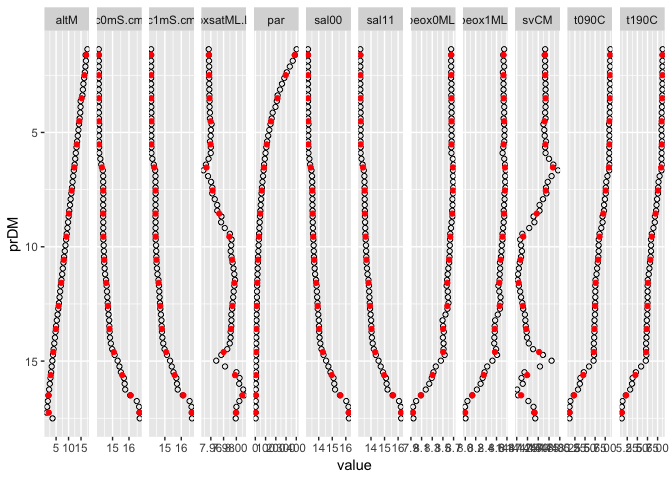
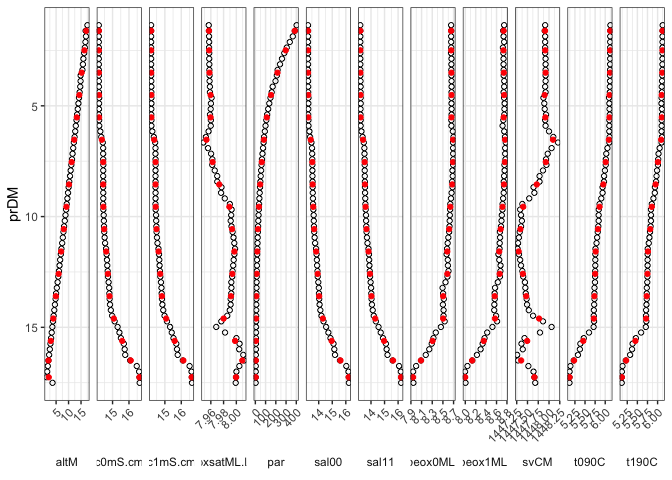
cosmetic changes

diff --git a/README.md b/README.md
@@ -26,76 +26,76 @@ from a CTD cast in the Arkona Basin (southern Baltic Sea).
 load("example_ctd") 
 ctd <- select(ctd, prDM : par)
 
-knitr::kable(ctd)
+knitr::kable(ctd, digits = 1)
 ```
 
-|      prDM|   c0mS.cm|   c1mS.cm|   t090C|   t190C|    sal00|    sal11|  sbeox0ML.L|  sbeox1ML.L|     svCM|  oxsatML.L|      altM|       par|
-|---------:|---------:|---------:|-------:|-------:|--------:|--------:|-----------:|-----------:|--------:|----------:|---------:|---------:|
-|   1.36001|  14.16115|  14.16036|  6.1272|  6.1251|  13.2087|  13.2088|     8.65394|     8.74601|  1447.91|    7.95670|  17.55465|  402.8700|
-|   1.61264|  14.16280|  14.16364|  6.1245|  6.1219|  13.2115|  13.2133|     8.65493|     8.72731|  1447.90|    7.95708|  16.83636|  386.3400|
-|   1.86478|  14.16379|  14.16305|  6.1236|  6.1211|  13.2128|  13.2130|     8.65435|     8.73503|  1447.91|    7.95719|  16.97811|  365.7800|
-|   2.11683|  14.16334|  14.16383|  6.1227|  6.1207|  13.2126|  13.2138|     8.65487|     8.74630|  1447.91|    7.95737|  16.75866|  336.8300|
-|   2.36962|  14.16532|  14.16366|  6.1229|  6.1206|  13.2145|  13.2137|     8.65615|     8.72256|  1447.91|    7.95724|  16.53253|  306.9200|
-|   2.62119|  14.16302|  14.16275|  6.1224|  6.1208|  13.2122|  13.2126|     8.65235|     8.73113|  1447.91|    7.95746|  16.25545|  282.5500|
-|   2.87361|  14.16270|  14.16321|  6.1225|  6.1199|  13.2118|  13.2134|     8.66118|     8.73442|  1447.92|    7.95746|  15.94486|  260.4100|
-|   3.12572|  14.16310|  14.16297|  6.1215|  6.1194|  13.2126|  13.2133|     8.65893|     8.73448|  1447.92|    7.95761|  15.75344|  240.8900|
-|   3.37831|  14.16301|  14.16445|  6.1210|  6.1178|  13.2127|  13.2154|     8.65753|     8.73657|  1447.92|    7.95771|  15.56046|  217.5000|
-|   3.63016|  14.16485|  14.16545|  6.1188|  6.1166|  13.2154|  13.2168|     8.66033|     8.73692|  1447.92|    7.95800|  14.83946|  209.8400|
-|   3.88273|  14.16518|  14.17255|  6.1185|  6.1095|  13.2156|  13.2269|     8.66183|     8.74779|  1447.92|    7.95803|  14.81576|  196.7800|
-|   4.13487|  14.16931|  14.17895|  6.1143|  6.1030|  13.2221|  13.2360|     8.66311|     8.74706|  1447.91|    7.95858|  14.68473|  169.2600|
-|   4.38717|  14.16919|  14.17440|  6.1140|  6.1065|  13.2215|  13.2297|     8.66173|     8.73560|  1447.92|    7.95861|  14.43718|  159.5600|
-|   4.63930|  14.18452|  14.17993|  6.0950|  6.0988|  13.2451|  13.2386|     8.66165|     8.74519|  1447.87|    7.96120|  14.18563|  147.8100|
-|   4.89165|  14.17770|  14.18080|  6.1028|  6.0955|  13.2345|  13.2402|     8.66120|     8.75530|  1447.89|    7.96013|  13.94903|  136.2300|
-|   5.14395|  14.17406|  14.17383|  6.1061|  6.1059|  13.2294|  13.2291|     8.66374|     8.75167|  1447.90|    7.95977|  13.69822|  125.3100|
-|   5.39597|  14.17083|  14.17188|  6.1131|  6.1104|  13.2231|  13.2252|     8.66258|     8.74922|  1447.93|    7.95872|  13.43070|  115.3000|
-|   5.64864|  14.18255|  14.18024|  6.1023|  6.1016|  13.2394|  13.2373|     8.65772|     8.73006|  1447.91|    7.95998|  13.18286|  107.0100|
-|   5.90063|  14.18828|  14.17989|  6.1012|  6.1016|  13.2456|  13.2368|     8.65953|     8.71610|  1447.92|    7.95987|  12.90581|   99.4450|
-|   6.15294|  14.25398|  14.23611|  6.1008|  6.0983|  13.3130|  13.2950|     8.68627|     8.74802|  1448.00|    7.95644|  12.67231|   92.6420|
-|   6.40502|  14.31108|  14.32640|  6.1079|  6.1085|  13.3663|  13.3820|     8.69804|     8.76309|  1448.10|    7.95230|  12.42511|   85.2070|
-|   6.65751|  14.40616|  14.40764|  6.1019|  6.0986|  13.4657|  13.4685|     8.68989|     8.77727|  1448.21|    7.94831|  12.11428|   80.7850|
-|   6.90966|  14.42686|  14.42802|  6.0541|  6.0500|  13.5067|  13.5097|     8.69039|     8.76569|  1448.06|    7.95553|  11.86291|   75.1250|
-|   7.16208|  14.42822|  14.42770|  6.0259|  6.0230|  13.5198|  13.5205|     8.69254|     8.76656|  1447.97|    7.96039|  11.60969|   69.6820|
-|   7.41397|  14.42954|  14.43186|  6.0144|  6.0152|  13.5256|  13.5275|     8.69461|     8.77146|  1447.93|    7.96235|  11.37238|   64.4640|
-|   7.66669|  14.43783|  14.43694|  6.0127|  6.0082|  13.5344|  13.5354|     8.69191|     8.75220|  1447.94|    7.96222|  11.10942|   60.3930|
-|   7.91862|  14.43107|  14.42979|  5.9924|  5.9869|  13.5359|  13.5368|     8.67903|     8.75513|  1447.86|    7.96613|  10.83857|   56.3030|
-|   8.17115|  14.42719|  14.42947|  5.9716|  5.9735|  13.5404|  13.5418|     8.68420|     8.74503|  1447.78|    7.96999|  10.57913|   52.2490|
-|   8.42334|  14.43372|  14.43183|  5.9694|  5.9629|  13.5476|  13.5484|     8.67459|     8.73869|  1447.78|    7.97006|  10.27849|   48.8650|
-|   8.67537|  14.42534|  14.42704|  5.9341|  5.9339|  13.5537|  13.5554|     8.68044|     8.74850|  1447.64|    7.97670|  10.02631|   45.7340|
-|   8.92763|  14.43384|  14.43374|  5.9350|  5.9310|  13.5616|  13.5631|     8.66313|     8.73806|  1447.66|    7.97609|   9.79494|   42.5310|
-|   9.18019|  14.43299|  14.43210|  5.9024|  5.8965|  13.5742|  13.5758|     8.65143|     8.72628|  1447.54|    7.98187|   9.52281|   39.3260|
-|   9.43236|  14.42492|  14.42566|  5.8595|  5.8568|  13.5838|  13.5856|     8.63803|     8.71539|  1447.38|    7.98985|   9.26731|   36.6010|
-|   9.68471|  14.43835|  14.43938|  5.8398|  5.8367|  13.6054|  13.6077|     8.63520|     8.71414|  1447.33|    7.99262|   9.01486|   33.8560|
-|   9.93666|  14.46043|  14.46190|  5.8375|  5.8369|  13.6284|  13.6300|     8.62931|     8.70148|  1447.35|    7.99189|   8.75897|   31.3660|
-|  10.18954|  14.47104|  14.47204|  5.8384|  5.8367|  13.6382|  13.6400|     8.62710|     8.69544|  1447.37|    7.99117|   8.48738|   28.9700|
-|  10.44156|  14.48015|  14.48132|  5.8288|  5.8267|  13.6513|  13.6533|     8.62321|     8.68568|  1447.35|    7.99240|   8.20142|   26.7280|
-|  10.69364|  14.49231|  14.49405|  5.8152|  5.8127|  13.6692|  13.6720|     8.61660|     8.66523|  1447.32|    7.99415|   7.95248|   24.6780|
-|  10.94627|  14.51737|  14.51855|  5.7996|  5.7976|  13.7011|  13.7031|     8.60120|     8.66816|  1447.30|    7.99557|   7.70210|   22.8360|
-|  11.19851|  14.54466|  14.54917|  5.7844|  5.7815|  13.7352|  13.7410|     8.58937|     8.66109|  1447.28|    7.99680|   7.43637|   21.0360|
-|  11.45074|  14.60579|  14.60996|  5.7588|  5.7562|  13.8085|  13.8138|     8.57875|     8.65774|  1447.27|    7.99802|   7.13987|   19.3410|
-|  11.70296|  14.63902|  14.64220|  5.7549|  5.7534|  13.8438|  13.8476|     8.56933|     8.63562|  1447.30|    7.99695|   6.89543|   17.8840|
-|  11.95537|  14.66024|  14.66036|  5.7546|  5.7531|  13.8652|  13.8659|     8.59165|     8.65291|  1447.33|    7.99590|   6.62272|   16.5570|
-|  12.20750|  14.67749|  14.67857|  5.7541|  5.7526|  13.8829|  13.8845|     8.59355|     8.67703|  1447.35|    7.99506|   6.38295|   15.2590|
-|  12.45972|  14.70314|  14.70147|  5.7518|  5.7507|  13.9098|  13.9085|     8.60480|     8.67407|  1447.38|    7.99410|   6.14061|   14.1030|
-|  12.71220|  14.72033|  14.72269|  5.7500|  5.7483|  13.9280|  13.9310|     8.58516|     8.66514|  1447.40|    7.99351|   5.87805|   13.0990|
-|  12.96460|  14.75906|  14.75990|  5.7462|  5.7443|  13.9690|  13.9708|     8.54859|     8.62383|  1447.44|    7.99211|   5.59697|   12.1810|
-|  13.21683|  14.79390|  14.79253|  5.7345|  5.7337|  14.0098|  14.0087|     8.49366|     8.57247|  1447.45|    7.99229|   5.29826|   11.2850|
-|  13.46876|  14.80368|  14.80367|  5.7330|  5.7316|  14.0203|  14.0208|     8.50380|     8.56387|  1447.46|    7.99207|   4.99694|   10.4550|
-|  13.72097|  14.82069|  14.82268|  5.7335|  5.7315|  14.0373|  14.0402|     8.51706|     8.56589|  1447.48|    7.99105|   4.78944|    9.7649|
-|  13.97349|  14.84423|  14.84825|  5.7265|  5.7247|  14.0644|  14.0693|     8.49982|     8.55786|  1447.49|    7.99103|   4.53706|    9.1644|
-|  14.22582|  14.89464|  14.90094|  5.7187|  5.7151|  14.1195|  14.1275|     8.51253|     8.55551|  1447.53|    7.98970|   4.27003|    8.5750|
-|  14.47779|  14.97532|  14.97923|  5.7164|  5.7152|  14.2032|  14.2077|     8.51167|     8.59136|  1447.63|    7.98575|   4.01070|    8.0462|
-|  14.73010|  15.12716|  15.12750|  5.7231|  5.7217|  14.3566|  14.3572|     8.53294|     8.60995|  1447.86|    7.97640|   3.75988|    7.5571|
-|  14.98250|  15.30768|  15.31647|  5.7129|  5.7092|  14.5467|  14.5575|     8.46200|     8.52119|  1448.06|    7.96849|   3.49701|    7.0785|
-|  15.23485|  15.41775|  15.41984|  5.5992|  5.5926|  14.7128|  14.7179|     8.36645|     8.42073|  1447.79|    7.98230|   3.24270|    6.5971|
-|  15.48713|  15.50809|  15.52434|  5.4689|  5.4619|  14.8667|  14.8867|     8.32254|     8.36966|  1447.43|    8.00009|   2.99729|    6.1493|
-|  15.73911|  15.68814|  15.69650|  5.3841|  5.3815|  15.0929|  15.1029|     8.29023|     8.33327|  1447.36|    8.00509|   2.73771|    5.7247|
-|  15.99135|  15.73768|  15.73929|  5.3723|  5.3681|  15.1490|  15.1527|     8.24383|     8.29418|  1447.39|    8.00448|   2.48601|    5.3485|
-|  16.24375|  15.77115|  15.78238|  5.3251|  5.3206|  15.2065|  15.2193|     8.17846|     8.22329|  1447.26|    8.01088|   2.20397|    4.9582|
-|  16.49580|  16.07121|  16.09350|  5.2214|  5.2134|  15.5688|  15.5970|     8.08890|     8.13299|  1447.28|    8.01248|   1.93661|    4.5679|
-|  16.74801|  16.47295|  16.50643|  5.1378|  5.1320|  16.0333|  16.0715|     7.99736|     8.04068|  1447.52|    8.00472|   1.67326|    4.2285|
-|  17.00029|  16.61826|  16.62354|  5.1183|  5.1167|  16.1952|  16.2015|     7.94006|     7.99494|  1447.64|    8.00010|   1.42746|    3.9255|
-|  17.25263|  16.64181|  16.64214|  5.1145|  5.1135|  16.2207|  16.2215|     7.93073|     7.99170|  1447.66|    7.99953|   1.14989|    3.6354|
-|  17.50504|  16.65272|  16.65273|  5.1156|  5.1134|  16.2256|  16.2267|     7.94661|     8.00465|  1447.68|    7.99904|   3.57480|    3.2456|
+|  prDM|  c0mS.cm|  c1mS.cm|  t090C|  t190C|  sal00|  sal11|  sbeox0ML.L|  sbeox1ML.L|    svCM|  oxsatML.L|  altM|    par|
+|-----:|--------:|--------:|------:|------:|------:|------:|-----------:|-----------:|-------:|----------:|-----:|------:|
+|   1.4|     14.2|     14.2|    6.1|    6.1|   13.2|   13.2|         8.7|         8.7|  1447.9|        8.0|  17.6|  402.9|
+|   1.6|     14.2|     14.2|    6.1|    6.1|   13.2|   13.2|         8.7|         8.7|  1447.9|        8.0|  16.8|  386.3|
+|   1.9|     14.2|     14.2|    6.1|    6.1|   13.2|   13.2|         8.7|         8.7|  1447.9|        8.0|  17.0|  365.8|
+|   2.1|     14.2|     14.2|    6.1|    6.1|   13.2|   13.2|         8.7|         8.7|  1447.9|        8.0|  16.8|  336.8|
+|   2.4|     14.2|     14.2|    6.1|    6.1|   13.2|   13.2|         8.7|         8.7|  1447.9|        8.0|  16.5|  306.9|
+|   2.6|     14.2|     14.2|    6.1|    6.1|   13.2|   13.2|         8.7|         8.7|  1447.9|        8.0|  16.3|  282.6|
+|   2.9|     14.2|     14.2|    6.1|    6.1|   13.2|   13.2|         8.7|         8.7|  1447.9|        8.0|  15.9|  260.4|
+|   3.1|     14.2|     14.2|    6.1|    6.1|   13.2|   13.2|         8.7|         8.7|  1447.9|        8.0|  15.8|  240.9|
+|   3.4|     14.2|     14.2|    6.1|    6.1|   13.2|   13.2|         8.7|         8.7|  1447.9|        8.0|  15.6|  217.5|
+|   3.6|     14.2|     14.2|    6.1|    6.1|   13.2|   13.2|         8.7|         8.7|  1447.9|        8.0|  14.8|  209.8|
+|   3.9|     14.2|     14.2|    6.1|    6.1|   13.2|   13.2|         8.7|         8.7|  1447.9|        8.0|  14.8|  196.8|
+|   4.1|     14.2|     14.2|    6.1|    6.1|   13.2|   13.2|         8.7|         8.7|  1447.9|        8.0|  14.7|  169.3|
+|   4.4|     14.2|     14.2|    6.1|    6.1|   13.2|   13.2|         8.7|         8.7|  1447.9|        8.0|  14.4|  159.6|
+|   4.6|     14.2|     14.2|    6.1|    6.1|   13.2|   13.2|         8.7|         8.7|  1447.9|        8.0|  14.2|  147.8|
+|   4.9|     14.2|     14.2|    6.1|    6.1|   13.2|   13.2|         8.7|         8.8|  1447.9|        8.0|  13.9|  136.2|
+|   5.1|     14.2|     14.2|    6.1|    6.1|   13.2|   13.2|         8.7|         8.8|  1447.9|        8.0|  13.7|  125.3|
+|   5.4|     14.2|     14.2|    6.1|    6.1|   13.2|   13.2|         8.7|         8.7|  1447.9|        8.0|  13.4|  115.3|
+|   5.6|     14.2|     14.2|    6.1|    6.1|   13.2|   13.2|         8.7|         8.7|  1447.9|        8.0|  13.2|  107.0|
+|   5.9|     14.2|     14.2|    6.1|    6.1|   13.2|   13.2|         8.7|         8.7|  1447.9|        8.0|  12.9|   99.4|
+|   6.2|     14.3|     14.2|    6.1|    6.1|   13.3|   13.3|         8.7|         8.7|  1448.0|        8.0|  12.7|   92.6|
+|   6.4|     14.3|     14.3|    6.1|    6.1|   13.4|   13.4|         8.7|         8.8|  1448.1|        8.0|  12.4|   85.2|
+|   6.7|     14.4|     14.4|    6.1|    6.1|   13.5|   13.5|         8.7|         8.8|  1448.2|        7.9|  12.1|   80.8|
+|   6.9|     14.4|     14.4|    6.1|    6.0|   13.5|   13.5|         8.7|         8.8|  1448.1|        8.0|  11.9|   75.1|
+|   7.2|     14.4|     14.4|    6.0|    6.0|   13.5|   13.5|         8.7|         8.8|  1448.0|        8.0|  11.6|   69.7|
+|   7.4|     14.4|     14.4|    6.0|    6.0|   13.5|   13.5|         8.7|         8.8|  1447.9|        8.0|  11.4|   64.5|
+|   7.7|     14.4|     14.4|    6.0|    6.0|   13.5|   13.5|         8.7|         8.8|  1447.9|        8.0|  11.1|   60.4|
+|   7.9|     14.4|     14.4|    6.0|    6.0|   13.5|   13.5|         8.7|         8.8|  1447.9|        8.0|  10.8|   56.3|
+|   8.2|     14.4|     14.4|    6.0|    6.0|   13.5|   13.5|         8.7|         8.7|  1447.8|        8.0|  10.6|   52.2|
+|   8.4|     14.4|     14.4|    6.0|    6.0|   13.5|   13.5|         8.7|         8.7|  1447.8|        8.0|  10.3|   48.9|
+|   8.7|     14.4|     14.4|    5.9|    5.9|   13.6|   13.6|         8.7|         8.7|  1447.6|        8.0|  10.0|   45.7|
+|   8.9|     14.4|     14.4|    5.9|    5.9|   13.6|   13.6|         8.7|         8.7|  1447.7|        8.0|   9.8|   42.5|
+|   9.2|     14.4|     14.4|    5.9|    5.9|   13.6|   13.6|         8.7|         8.7|  1447.5|        8.0|   9.5|   39.3|
+|   9.4|     14.4|     14.4|    5.9|    5.9|   13.6|   13.6|         8.6|         8.7|  1447.4|        8.0|   9.3|   36.6|
+|   9.7|     14.4|     14.4|    5.8|    5.8|   13.6|   13.6|         8.6|         8.7|  1447.3|        8.0|   9.0|   33.9|
+|   9.9|     14.5|     14.5|    5.8|    5.8|   13.6|   13.6|         8.6|         8.7|  1447.3|        8.0|   8.8|   31.4|
+|  10.2|     14.5|     14.5|    5.8|    5.8|   13.6|   13.6|         8.6|         8.7|  1447.4|        8.0|   8.5|   29.0|
+|  10.4|     14.5|     14.5|    5.8|    5.8|   13.7|   13.7|         8.6|         8.7|  1447.3|        8.0|   8.2|   26.7|
+|  10.7|     14.5|     14.5|    5.8|    5.8|   13.7|   13.7|         8.6|         8.7|  1447.3|        8.0|   8.0|   24.7|
+|  10.9|     14.5|     14.5|    5.8|    5.8|   13.7|   13.7|         8.6|         8.7|  1447.3|        8.0|   7.7|   22.8|
+|  11.2|     14.5|     14.5|    5.8|    5.8|   13.7|   13.7|         8.6|         8.7|  1447.3|        8.0|   7.4|   21.0|
+|  11.5|     14.6|     14.6|    5.8|    5.8|   13.8|   13.8|         8.6|         8.7|  1447.3|        8.0|   7.1|   19.3|
+|  11.7|     14.6|     14.6|    5.8|    5.8|   13.8|   13.8|         8.6|         8.6|  1447.3|        8.0|   6.9|   17.9|
+|  12.0|     14.7|     14.7|    5.8|    5.8|   13.9|   13.9|         8.6|         8.7|  1447.3|        8.0|   6.6|   16.6|
+|  12.2|     14.7|     14.7|    5.8|    5.8|   13.9|   13.9|         8.6|         8.7|  1447.3|        8.0|   6.4|   15.3|
+|  12.5|     14.7|     14.7|    5.8|    5.8|   13.9|   13.9|         8.6|         8.7|  1447.4|        8.0|   6.1|   14.1|
+|  12.7|     14.7|     14.7|    5.8|    5.7|   13.9|   13.9|         8.6|         8.7|  1447.4|        8.0|   5.9|   13.1|
+|  13.0|     14.8|     14.8|    5.7|    5.7|   14.0|   14.0|         8.5|         8.6|  1447.4|        8.0|   5.6|   12.2|
+|  13.2|     14.8|     14.8|    5.7|    5.7|   14.0|   14.0|         8.5|         8.6|  1447.5|        8.0|   5.3|   11.3|
+|  13.5|     14.8|     14.8|    5.7|    5.7|   14.0|   14.0|         8.5|         8.6|  1447.5|        8.0|   5.0|   10.5|
+|  13.7|     14.8|     14.8|    5.7|    5.7|   14.0|   14.0|         8.5|         8.6|  1447.5|        8.0|   4.8|    9.8|
+|  14.0|     14.8|     14.8|    5.7|    5.7|   14.1|   14.1|         8.5|         8.6|  1447.5|        8.0|   4.5|    9.2|
+|  14.2|     14.9|     14.9|    5.7|    5.7|   14.1|   14.1|         8.5|         8.6|  1447.5|        8.0|   4.3|    8.6|
+|  14.5|     15.0|     15.0|    5.7|    5.7|   14.2|   14.2|         8.5|         8.6|  1447.6|        8.0|   4.0|    8.0|
+|  14.7|     15.1|     15.1|    5.7|    5.7|   14.4|   14.4|         8.5|         8.6|  1447.9|        8.0|   3.8|    7.6|
+|  15.0|     15.3|     15.3|    5.7|    5.7|   14.5|   14.6|         8.5|         8.5|  1448.1|        8.0|   3.5|    7.1|
+|  15.2|     15.4|     15.4|    5.6|    5.6|   14.7|   14.7|         8.4|         8.4|  1447.8|        8.0|   3.2|    6.6|
+|  15.5|     15.5|     15.5|    5.5|    5.5|   14.9|   14.9|         8.3|         8.4|  1447.4|        8.0|   3.0|    6.1|
+|  15.7|     15.7|     15.7|    5.4|    5.4|   15.1|   15.1|         8.3|         8.3|  1447.4|        8.0|   2.7|    5.7|
+|  16.0|     15.7|     15.7|    5.4|    5.4|   15.1|   15.2|         8.2|         8.3|  1447.4|        8.0|   2.5|    5.3|
+|  16.2|     15.8|     15.8|    5.3|    5.3|   15.2|   15.2|         8.2|         8.2|  1447.3|        8.0|   2.2|    5.0|
+|  16.5|     16.1|     16.1|    5.2|    5.2|   15.6|   15.6|         8.1|         8.1|  1447.3|        8.0|   1.9|    4.6|
+|  16.7|     16.5|     16.5|    5.1|    5.1|   16.0|   16.1|         8.0|         8.0|  1447.5|        8.0|   1.7|    4.2|
+|  17.0|     16.6|     16.6|    5.1|    5.1|   16.2|   16.2|         7.9|         8.0|  1447.6|        8.0|   1.4|    3.9|
+|  17.3|     16.6|     16.6|    5.1|    5.1|   16.2|   16.2|         7.9|         8.0|  1447.7|        8.0|   1.1|    3.6|
+|  17.5|     16.7|     16.7|    5.1|    5.1|   16.2|   16.2|         7.9|         8.0|  1447.7|        8.0|   3.6|    3.2|
 
 Binned:
 -------
@@ -105,28 +105,28 @@ binned <- binCTD.mean(.data = ctd,
                       .binvar = "prDM",
                       .binwidth = 1)
 
-knitr::kable(binned)
+knitr::kable(binned, digits = 1)
 ```
 
-| bins     |       prDM|   c0mS.cm|   c1mS.cm|     t090C|     t190C|     sal00|     sal11|  sbeox0ML.L|  sbeox1ML.L|      svCM|  oxsatML.L|       altM|         par|
-|:---------|----------:|---------:|---------:|---------:|---------:|---------:|---------:|-----------:|-----------:|---------:|----------:|----------:|-----------:|
-| (1,2\]   |   1.612477|  14.16258|  14.16235|  6.125100|  6.122700|  13.21100|  13.21170|    8.654407|    8.736117|  1447.907|   7.956990|  17.123040|  384.996667|
-| (2,3\]   |   2.495312|  14.16360|  14.16336|  6.122625|  6.120500|  13.21278|  13.21337|    8.656137|    8.733602|  1447.912|   7.957382|  16.372875|  296.677500|
-| (3,4\]   |   3.504230|  14.16404|  14.16635|  6.119950|  6.115825|  13.21407|  13.21810|    8.659655|    8.738940|  1447.920|   7.957838|  15.242280|  216.252500|
-| (4,5\]   |   4.513248|  14.17518|  14.17852|  6.106525|  6.100950|  13.23080|  13.23612|    8.661922|    8.745788|  1447.898|   7.959630|  14.314143|  153.215000|
-| (5,6\]   |   5.522297|  14.17893|  14.17646|  6.105675|  6.104875|  13.23438|  13.23210|    8.660892|    8.736762|  1447.915|   7.959585|  13.304398|  111.766250|
-| (6,7\]   |   6.531282|  14.34952|  14.34954|  6.091175|  6.088850|  13.41292|  13.41380|    8.691147|    8.763518|  1448.092|   7.953145|  12.268652|   83.439750|
-| (7,8\]   |   7.540340|  14.43166|  14.43157|  6.011350|  6.008325|  13.52892|  13.53005|    8.689523|    8.761337|  1447.925|   7.962772|  11.232515|   62.710500|
-| (8,9\]   |   8.549373|  14.43002|  14.43052|  5.952525|  5.950325|  13.55082|  13.55218|    8.675590|    8.742570|  1447.715|   7.973210|  10.169718|   47.344750|
-| (9,10\]  |   9.558480|  14.43917|  14.43976|  5.859800|  5.856725|  13.59795|  13.59977|    8.638492|    8.714322|  1447.400|   7.989058|   9.140987|   35.287250|
-| (10,11\] |  10.567752|  14.49022|  14.49149|  5.820500|  5.818425|  13.66495|  13.66710|    8.617028|    8.678627|  1447.335|   7.993322|   8.085845|   25.803000|
-| (11,12\] |  11.576895|  14.61243|  14.61542|  5.763175|  5.761050|  13.81317|  13.81708|    8.582275|    8.651840|  1447.295|   7.996918|   7.023598|   18.704500|
-| (12,13\] |  12.586005|  14.71500|  14.71566|  5.750525|  5.748975|  13.92243|  13.92370|    8.583025|    8.660018|  1447.392|   7.993695|   5.999645|   13.660500|
-| (13,14\] |  13.595012|  14.81562|  14.81678|  5.731875|  5.730375|  14.03295|  14.03475|    8.503585|    8.565022|  1447.470|   7.991610|   4.905425|   10.167325|
-| (14,15\] |  14.604052|  15.07620|  15.08104|  5.717775|  5.715300|  14.30650|  14.31247|    8.504785|    8.569503|  1447.770|   7.980085|   3.884405|    7.814200|
-| (15,16\] |  15.613110|  15.58791|  15.59499|  5.456125|  5.451025|  14.95535|  14.96505|    8.305763|    8.354460|  1447.493|   7.997990|   2.865928|    5.954900|
-| (16,17\] |  16.495853|  16.10510|  16.12743|  5.228100|  5.222000|  15.60287|  15.62927|    8.088240|    8.132320|  1447.353|   8.009360|   1.937947|    4.584867|
-| (17,18\] |  17.252653|  16.63759|  16.63947|  5.116133|  5.114533|  16.21383|  16.21657|    7.939133|    7.997097|  1447.660|   7.999557|   2.050717|    3.602167|
+| bins     |  prDM|  c0mS.cm|  c1mS.cm|  t090C|  t190C|  sal00|  sal11|  sbeox0ML.L|  sbeox1ML.L|    svCM|  oxsatML.L|  altM|    par|
+|:---------|-----:|--------:|--------:|------:|------:|------:|------:|-----------:|-----------:|-------:|----------:|-----:|------:|
+| (1,2\]   |   1.6|     14.2|     14.2|    6.1|    6.1|   13.2|   13.2|         8.7|         8.7|  1447.9|          8|  17.1|  385.0|
+| (2,3\]   |   2.5|     14.2|     14.2|    6.1|    6.1|   13.2|   13.2|         8.7|         8.7|  1447.9|          8|  16.4|  296.7|
+| (3,4\]   |   3.5|     14.2|     14.2|    6.1|    6.1|   13.2|   13.2|         8.7|         8.7|  1447.9|          8|  15.2|  216.3|
+| (4,5\]   |   4.5|     14.2|     14.2|    6.1|    6.1|   13.2|   13.2|         8.7|         8.7|  1447.9|          8|  14.3|  153.2|
+| (5,6\]   |   5.5|     14.2|     14.2|    6.1|    6.1|   13.2|   13.2|         8.7|         8.7|  1447.9|          8|  13.3|  111.8|
+| (6,7\]   |   6.5|     14.3|     14.3|    6.1|    6.1|   13.4|   13.4|         8.7|         8.8|  1448.1|          8|  12.3|   83.4|
+| (7,8\]   |   7.5|     14.4|     14.4|    6.0|    6.0|   13.5|   13.5|         8.7|         8.8|  1447.9|          8|  11.2|   62.7|
+| (8,9\]   |   8.5|     14.4|     14.4|    6.0|    6.0|   13.6|   13.6|         8.7|         8.7|  1447.7|          8|  10.2|   47.3|
+| (9,10\]  |   9.6|     14.4|     14.4|    5.9|    5.9|   13.6|   13.6|         8.6|         8.7|  1447.4|          8|   9.1|   35.3|
+| (10,11\] |  10.6|     14.5|     14.5|    5.8|    5.8|   13.7|   13.7|         8.6|         8.7|  1447.3|          8|   8.1|   25.8|
+| (11,12\] |  11.6|     14.6|     14.6|    5.8|    5.8|   13.8|   13.8|         8.6|         8.7|  1447.3|          8|   7.0|   18.7|
+| (12,13\] |  12.6|     14.7|     14.7|    5.8|    5.7|   13.9|   13.9|         8.6|         8.7|  1447.4|          8|   6.0|   13.7|
+| (13,14\] |  13.6|     14.8|     14.8|    5.7|    5.7|   14.0|   14.0|         8.5|         8.6|  1447.5|          8|   4.9|   10.2|
+| (14,15\] |  14.6|     15.1|     15.1|    5.7|    5.7|   14.3|   14.3|         8.5|         8.6|  1447.8|          8|   3.9|    7.8|
+| (15,16\] |  15.6|     15.6|     15.6|    5.5|    5.5|   15.0|   15.0|         8.3|         8.4|  1447.5|          8|   2.9|    6.0|
+| (16,17\] |  16.5|     16.1|     16.1|    5.2|    5.2|   15.6|   15.6|         8.1|         8.1|  1447.4|          8|   1.9|    4.6|
+| (17,18\] |  17.3|     16.6|     16.6|    5.1|    5.1|   16.2|   16.2|         7.9|         8.0|  1447.7|          8|   2.1|    3.6|
 
 Plot results (unbinned vs binned):
 ==================================
@@ -139,9 +139,14 @@ binned %>%
     geom_point(data = gather(ctd, key = "variable", value = "value", -prDM),
                shape = 21) +
     geom_point(color = "red") +
-    facet_grid(~variable, scales = "free") +
+    facet_grid(~variable, scales = "free", switch = "x") +
     coord_flip() +
-    scale_x_reverse()
+    scale_x_reverse() +
+    theme_bw() +
+    theme(axis.text.x = element_text(angle = 45, hjust = 1),
+          strip.background = element_rect(fill = NA, colour = NA),
+          strip.placement = "outside") +
+    ylab(NULL)
 ```
 
 ![](README_files/figure-markdown_github/plot-1.png)
